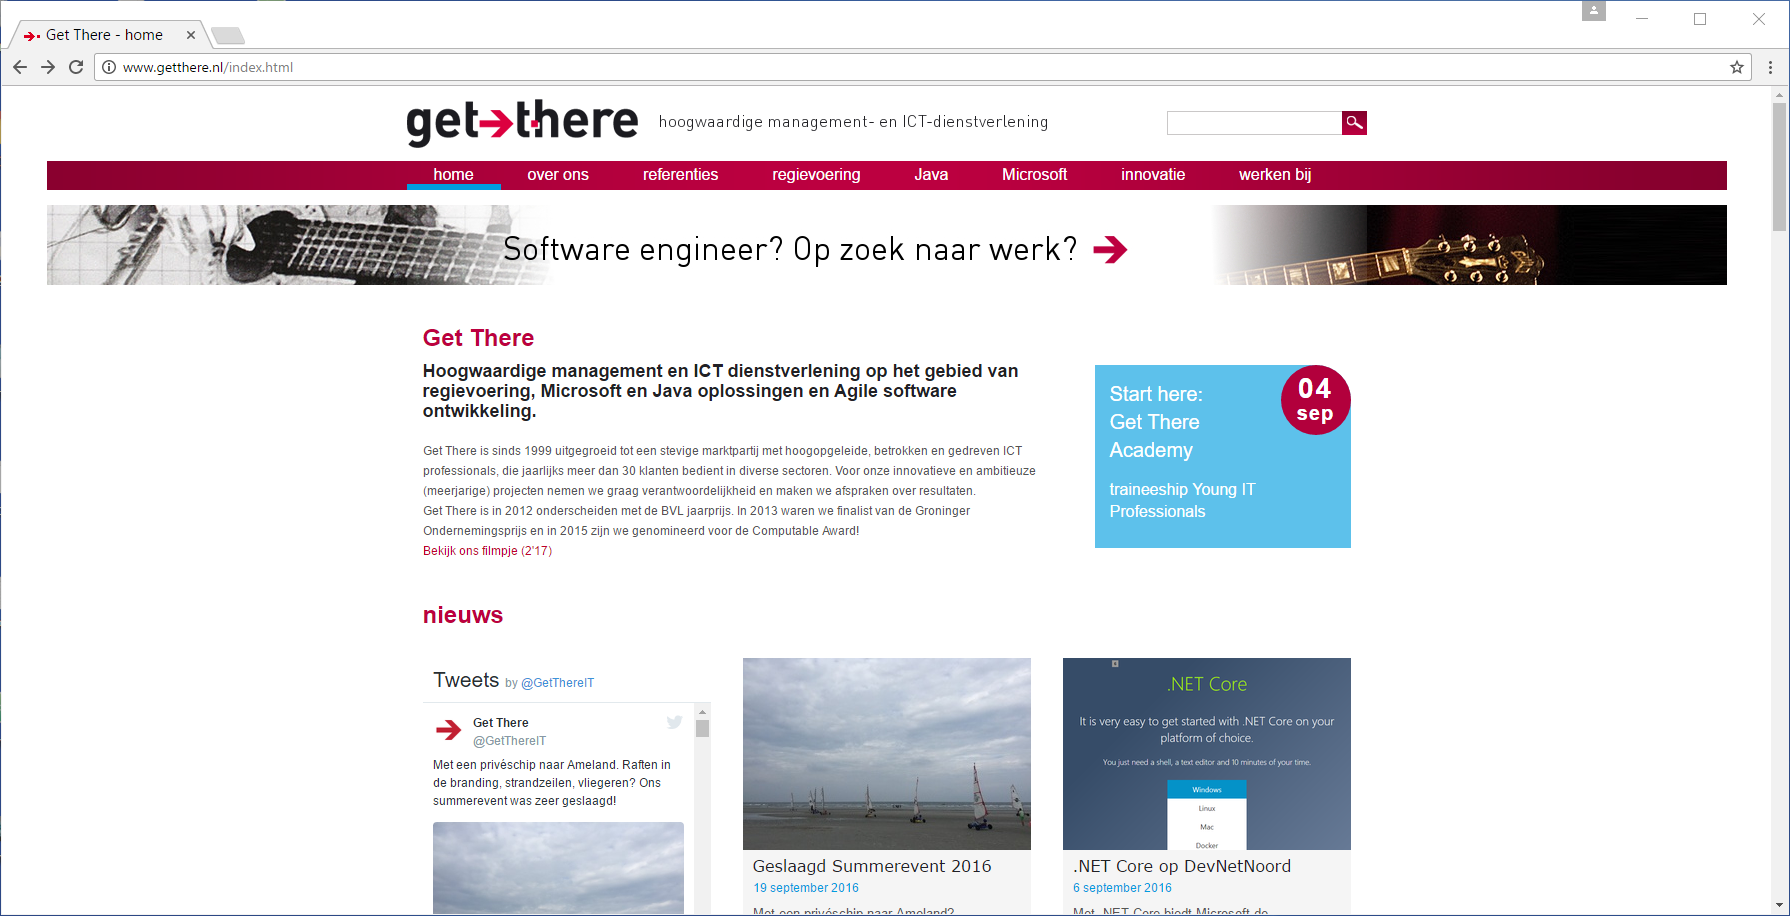
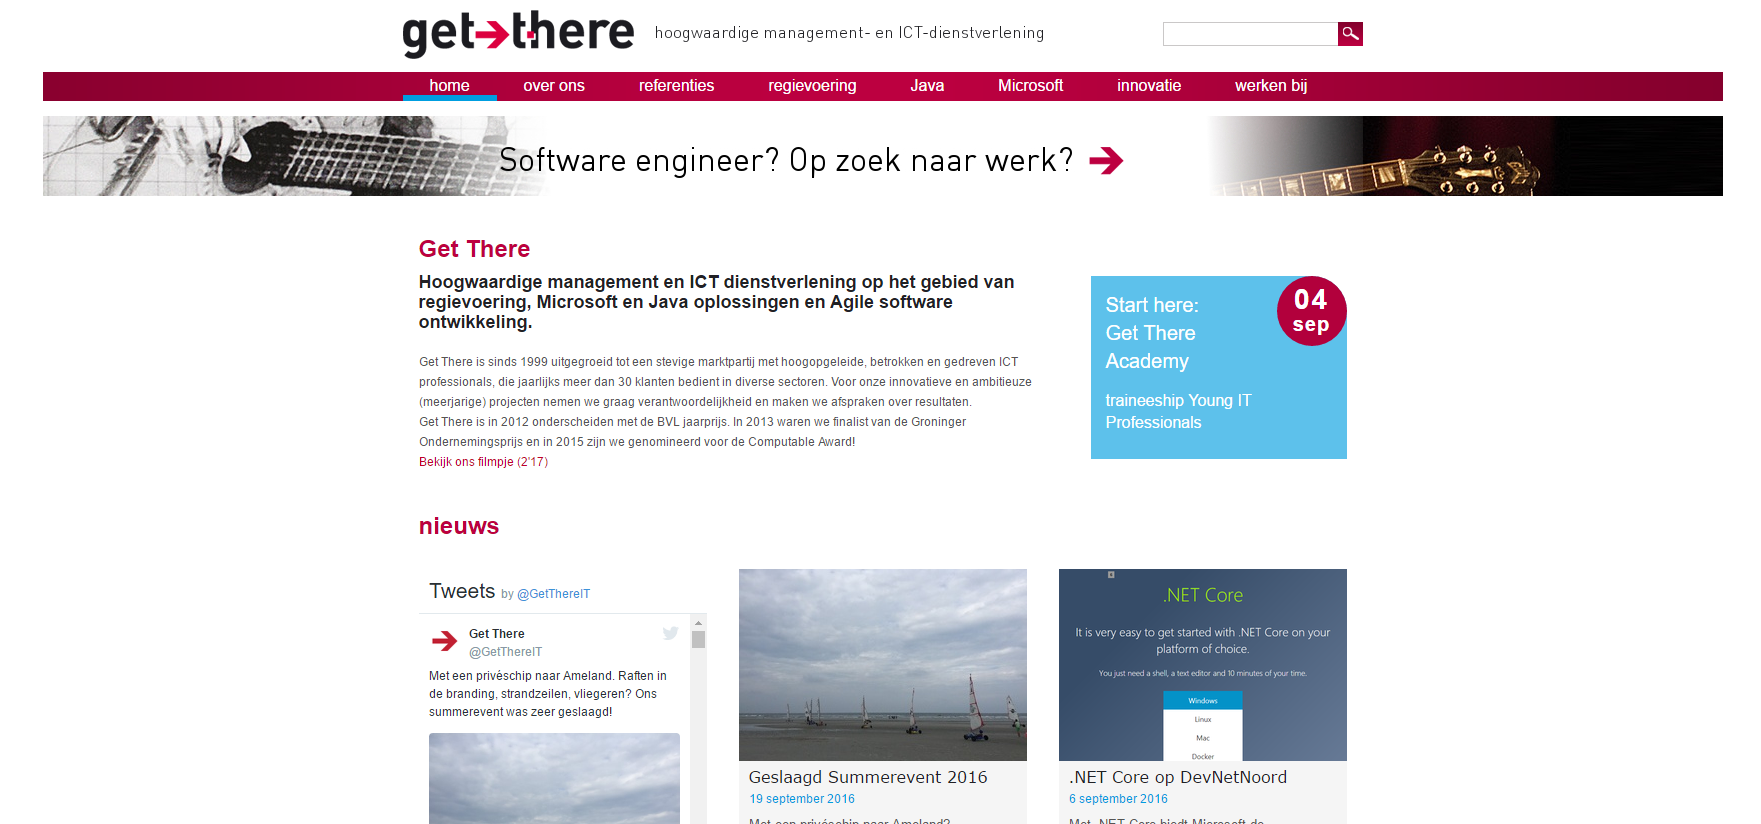
Added LinkedIn & Woonplaats field. Some changes in HTLM CSS.

Changed region(s): [[0.0, 0.0, 1.0, 1.0], [0.2186, 0.9709, 0.2499, 1.0]]

diff --git a/src/main/webapp/styles.css b/src/main/webapp/styles.css
@@ -6,6 +6,9 @@
 body {
   font-size: 62.5%;
   font-family: sans-serif;
+  /* background-image: url('../images/bg.PNG');
+  background-position: center top;
+  background-repeat: no-repeat;*/
 }
 
 img {
@@ -58,9 +61,6 @@ h3 {
 
 #main {}
 
-#index {
-  background-image: url('images/bg.PNG');
-}
 #footer {}
 
 .content {

diff --git a/src/main/java/nl/getthere/users/Student.java b/src/main/java/nl/getthere/users/Student.java
@@ -15,6 +15,9 @@ public class Student{
 	private String lastName;
 	private String phoneNumber;
 	private String emailAddress;
+	private String linkedIn;
+	private String woonplaats;
+	private String gebDatum;
 	private Boolean agreedPrivacy; // Agreed privacy letter
 	private String password;
 	private String passwordConfirmation;
@@ -134,6 +137,31 @@ public class Student{
 	public void setEmailAddress(String emailAddress) {
 		this.emailAddress = emailAddress;
 	}
+	
+	public String getLinkedIn() {
+		return linkedIn;
+	}
+	
+	public void setLinkedIn(String linkedIn) {
+		this.linkedIn = linkedIn;
+	}
+	
+	public String getWoonplaats() {
+		return woonplaats;
+	}
+	
+	public void setWoonplaats(String woonplaats) {
+		this.woonplaats = woonplaats;
+	}
+	
+	public String getGebDatum() {
+		return gebDatum;
+	}
+	
+	public void setGebDatum (String gebDatum) {
+		this.gebDatum = gebDatum;
+	}
+	
 	public String toString(){
 		return firstName + " " + lastName + " " + phoneNumber + " " + emailAddress;
 	}

diff --git a/src/main/java/nl/getthere/controllers/UserRegistration.java b/src/main/java/nl/getthere/controllers/UserRegistration.java
@@ -235,9 +235,7 @@ public class UserRegistration {
 		return "admin";
 //		return "recruitersReg";
 	}
-	
 
-	
 	@RequestMapping(value="/recruitersLogin", method=RequestMethod.POST)
 	public String login(String recruiterName, String recruiterPass){
 		return "redirect:/admin";
